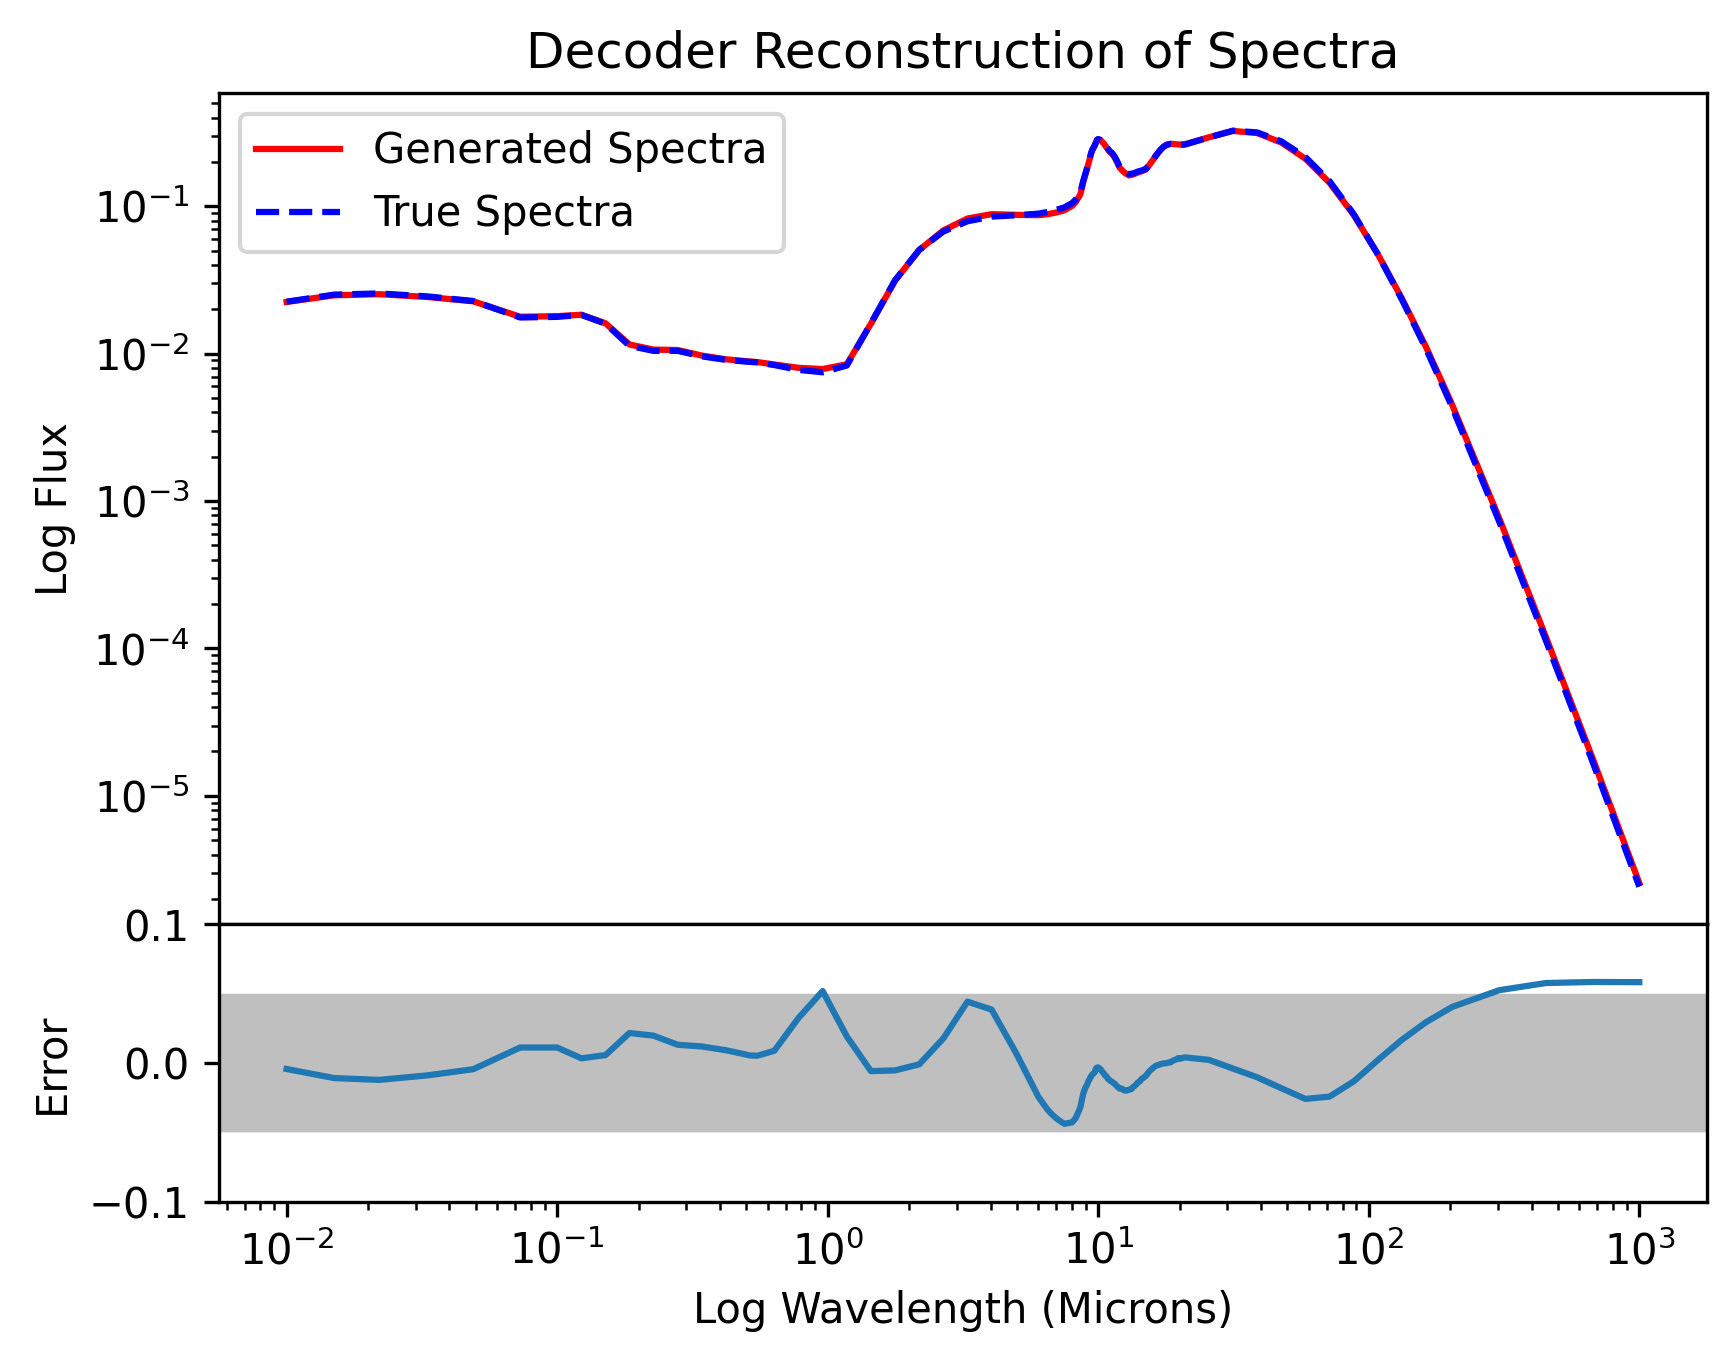
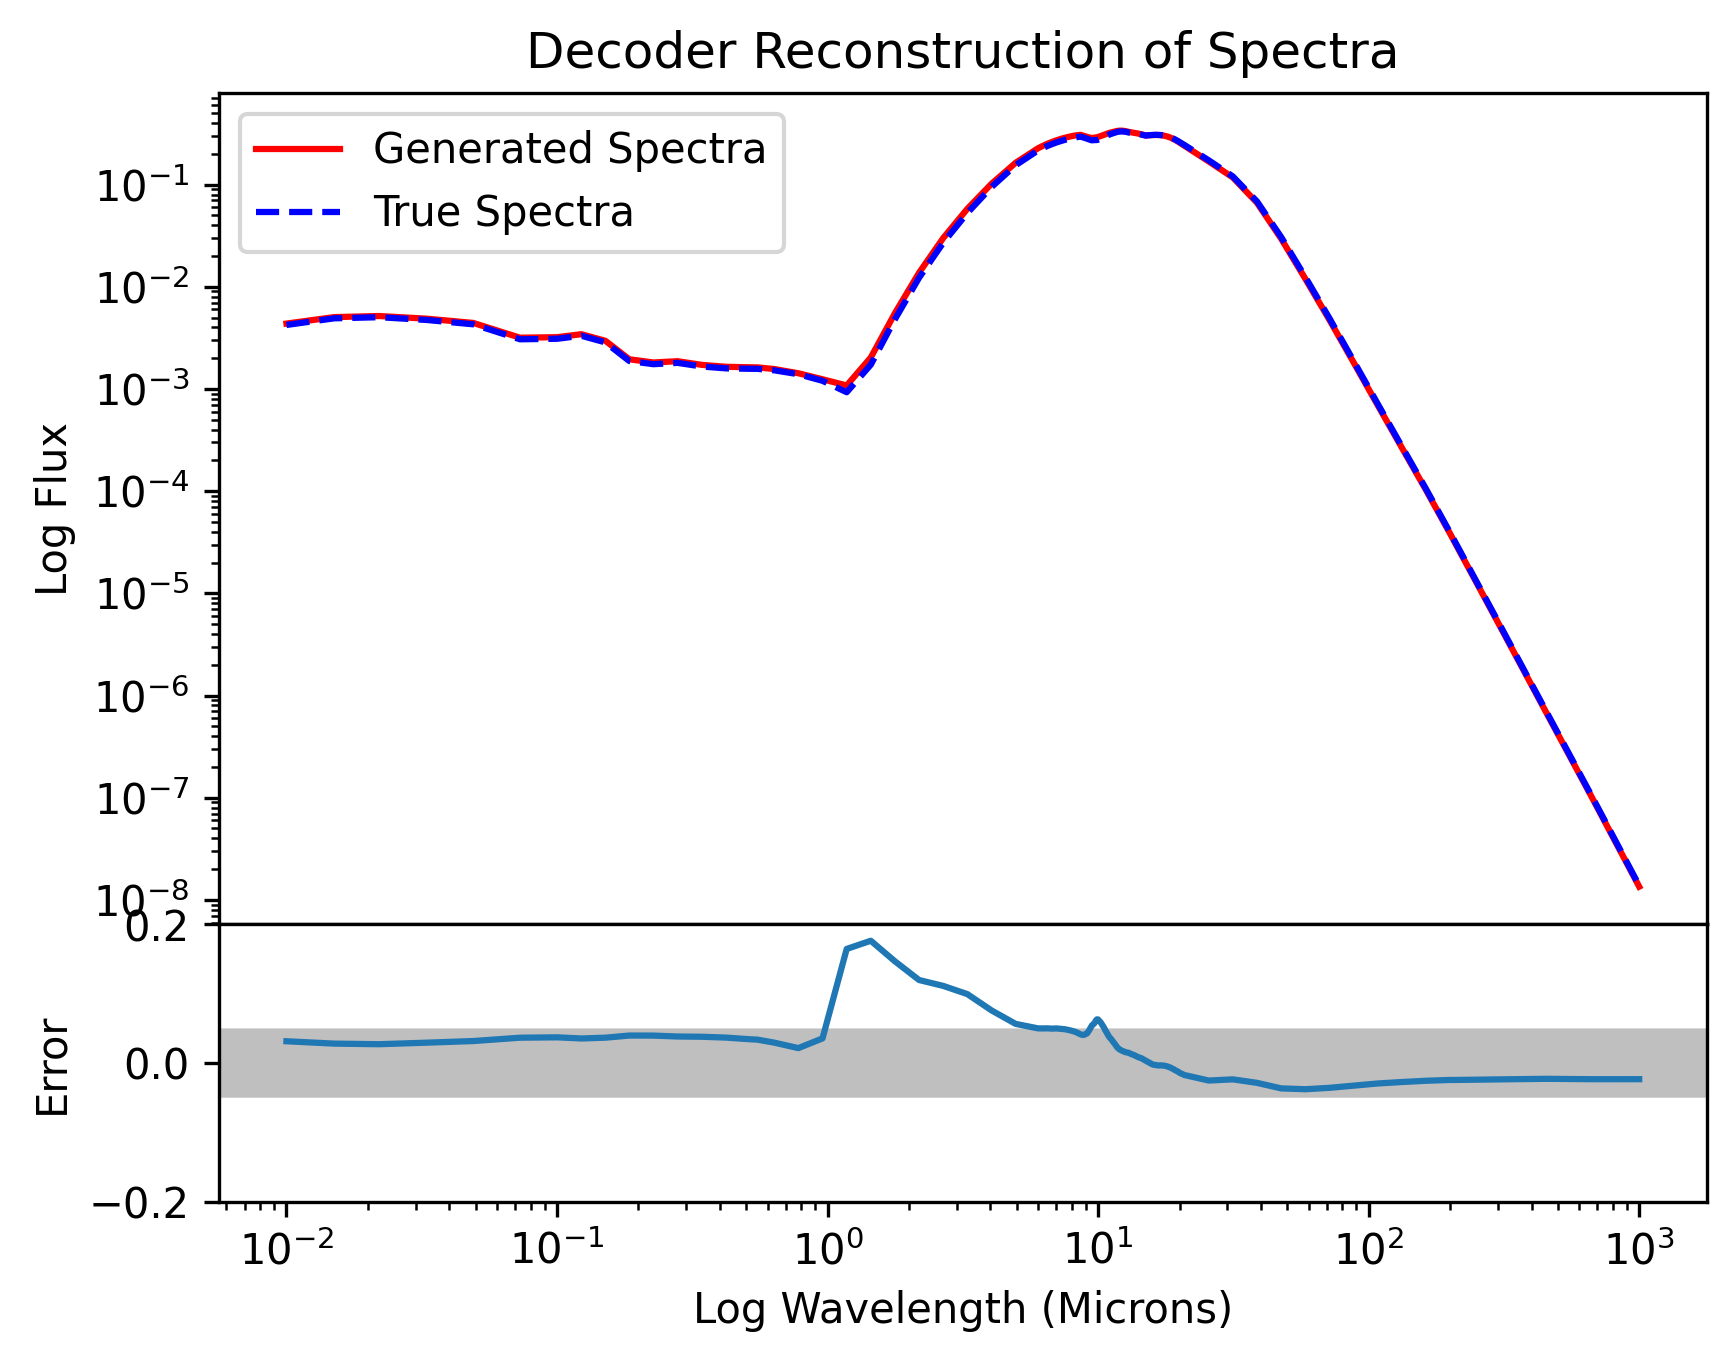
New error plot

diff --git a/autoencoder/test_decoder.py b/autoencoder/test_decoder.py
@@ -73,15 +73,62 @@ plt.title('New Unique Spectra vs Old')
 plt.savefig('New_generation.png', dpi=300)
 plt.clf()
 
-
-err_set_all = (vae_test[100]-out_test[100])/out_test[100]
+err_set_all = (vae_test-out_test)/out_test
+mse = np.array(np.mean(np.square(err_set_all), axis=1))
+spectra = np.argmax(mse)
+vae_test = vae_test[spectra]
+out_test = out_test[spectra]
+err_set_all = err_set_all[spectra]
+print(err_set_all)
 fig = plt.figure()
 gs  = gridspec.GridSpec(2, 1, height_ratios=[3,1])
 ax0 = plt.subplot(gs[0])
 ax1 = plt.subplot(gs[1],sharex=ax0)
 plt.subplots_adjust(wspace=0, hspace=0)
-ax0.loglog(wave, vae_test[100], 'r-',label = 'Generated Spectra')
-ax0.loglog(wave, out_test[100], 'b--', label = 'True Spectra')
+ax0.loglog(wave, vae_test, 'r-',label = 'Generated Spectra')
+ax0.loglog(wave, out_test, 'b--', label = 'True Spectra')
+ax1.plot(wave, err_set_all)
+ax1.set_xscale('log')
+
+xlim0 = ax0.get_xlim()
+ylim0 = ax0.get_ylim()
+xlim1 = ax1.get_xlim()
+ylim1 = ax1.get_ylim()
+
+ax1.fill_between(range(10000), -0.05, 0.05, alpha=0.25, color = 'k', linewidth=0.0)
+
+if ylim1[0] < 0 and ylim1[1] < 0:
+    val = math.floor(min(ylim1)*10)/10
+else:
+    val = math.ceil(max(ylim1)*10)/10
+
+
+ax0.set_xlim(xlim0)
+ax0.set_ylim(ylim0)
+ax1.set_xlim(xlim1)
+if val < 0:
+    ax1.set_ylim(val,val*-1)
+else:
+    ax1.set_ylim(val*-1,val)
+
+ax0.legend()
+ax0.title.set_text('Decoder Reconstruction of Spectra')
+plt.xlabel('Log Wavelength (Microns)')
+ax0.set_ylabel('Log Flux')
+ax1.set_ylabel('Error')
+
+plt.savefig('Spectra_comparison_max_err.png', dpi=300, bbox_inches='tight')
+plt.clf()
+##### PLOT SPECIFIC TEST SPECTRA
+"""
+err_set_all = (vae_test[10]-out_test[10])/out_test[10]
+fig = plt.figure()
+gs  = gridspec.GridSpec(2, 1, height_ratios=[3,1])
+ax0 = plt.subplot(gs[0])
+ax1 = plt.subplot(gs[1],sharex=ax0)
+plt.subplots_adjust(wspace=0, hspace=0)
+ax0.loglog(wave, vae_test[10], 'r-',label = 'Generated Spectra')
+ax0.loglog(wave, out_test[10], 'b--', label = 'True Spectra')
 ax1.plot(wave, err_set_all)
 ax1.set_xscale('log')
 
@@ -107,3 +154,4 @@ ax1.set_ylabel('Error')
 
 plt.savefig('Spectra_comparison_decoder.png', dpi=300, bbox_inches='tight')
 plt.clf()
+"""

diff --git a/pca/run_pca.py b/pca/run_pca.py
@@ -93,7 +93,7 @@ for i in [0, 6, 16, 26]:
 """
 
 #Plotting
-_, bins, _ = plt.hist(mse[0], bins=50, range=[0, 0.004], density = True, alpha = 0.3, label = str(n_comp[0]) + ' Components')
+_, bins, _ = plt.hist(mse[0], bins=30, range=[0, 0.004], density = True, alpha = 0.3, label = str(n_comp[0]) + ' Components')
 for i in range(1,len(n_comp)):
     plt.hist(mse[i], bins = bins, density = True, alpha = 0.3, label = str(n_comp[i]) + ' Components')
 plt.legend()
